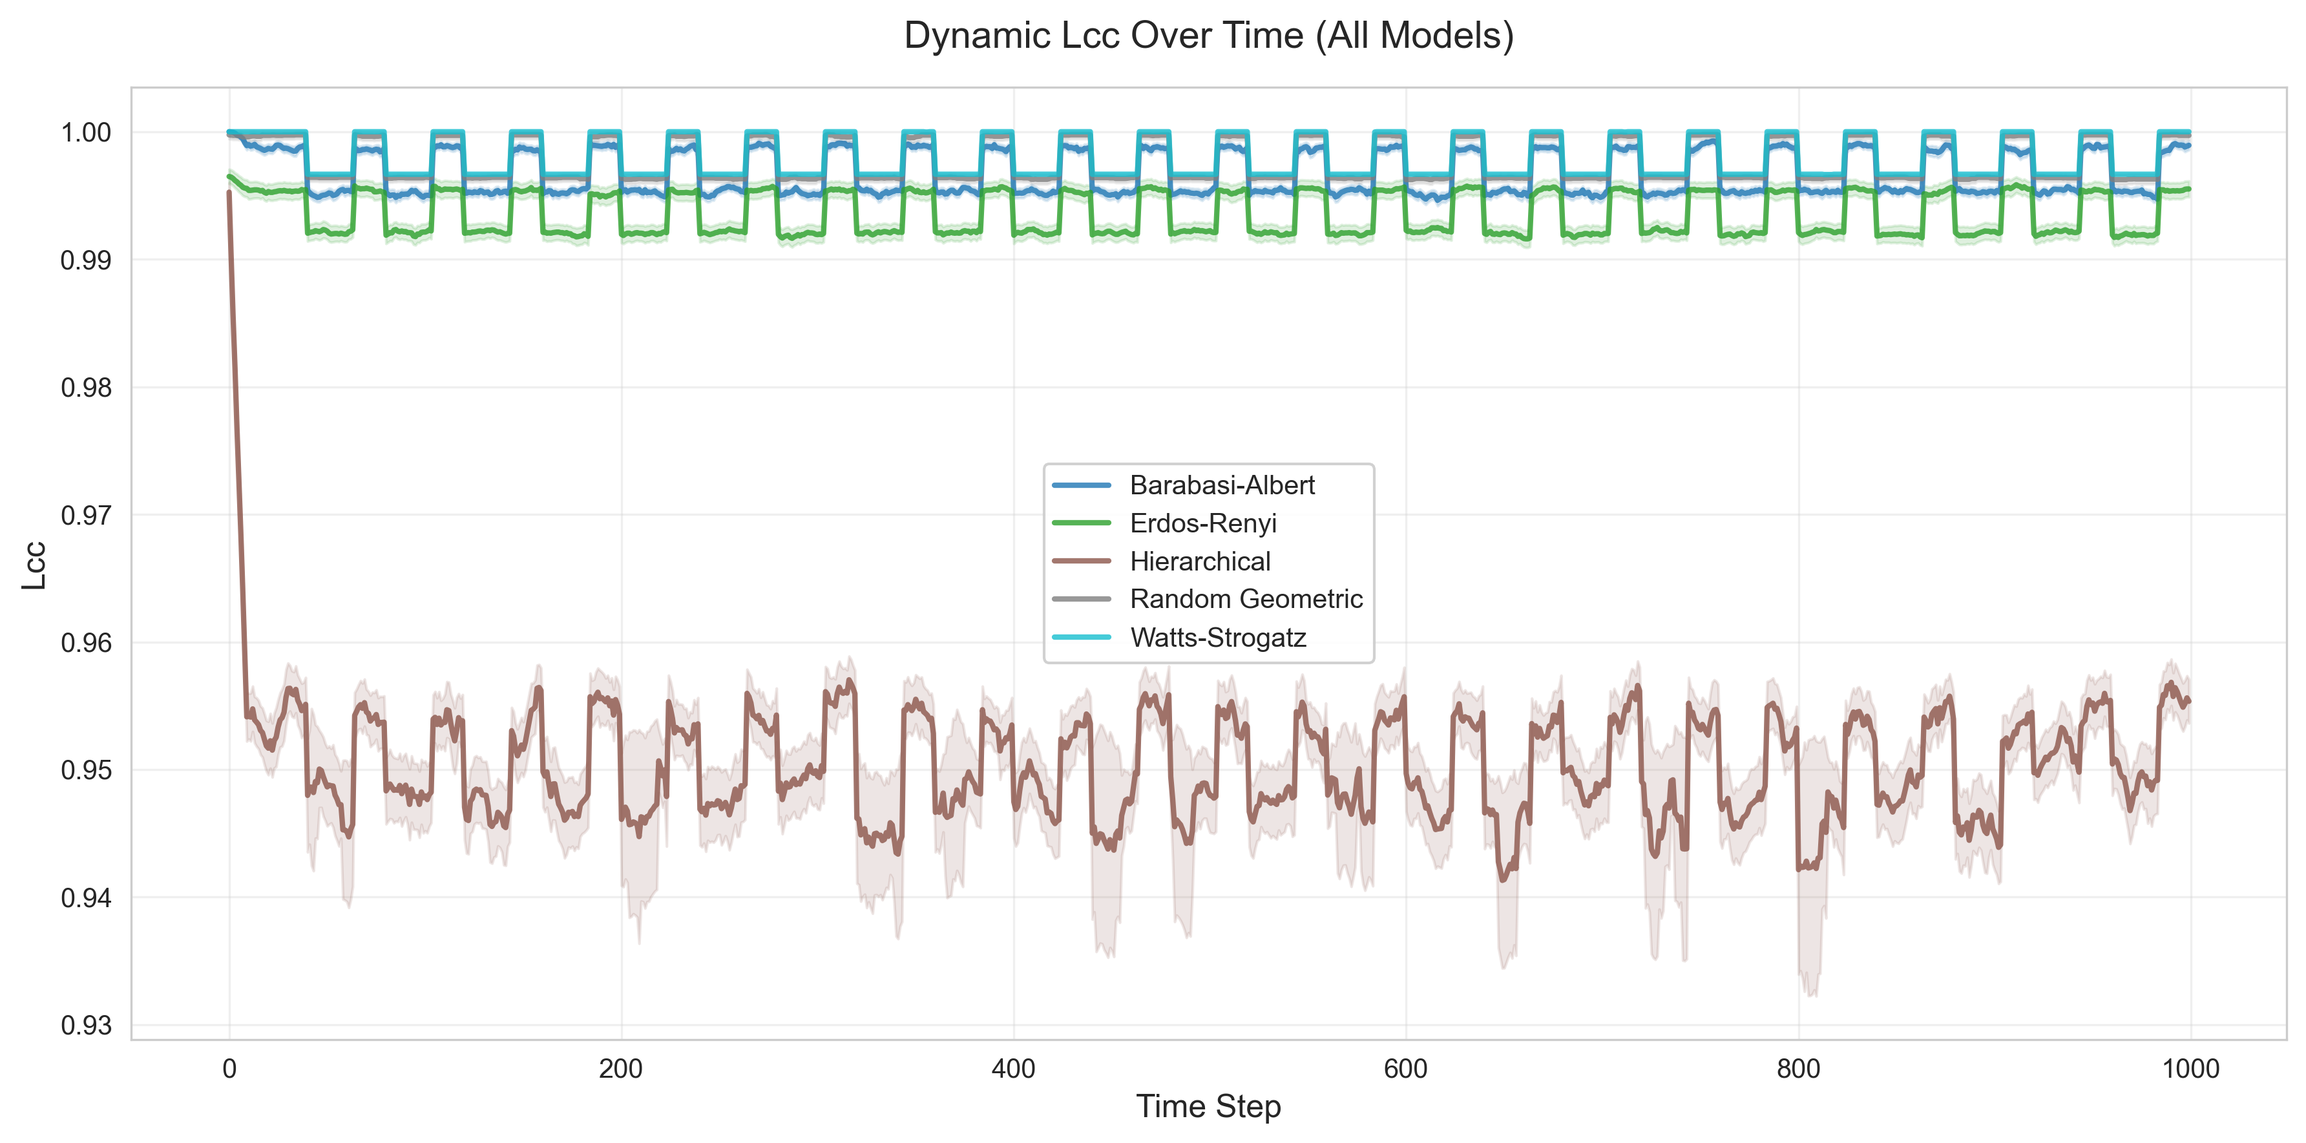
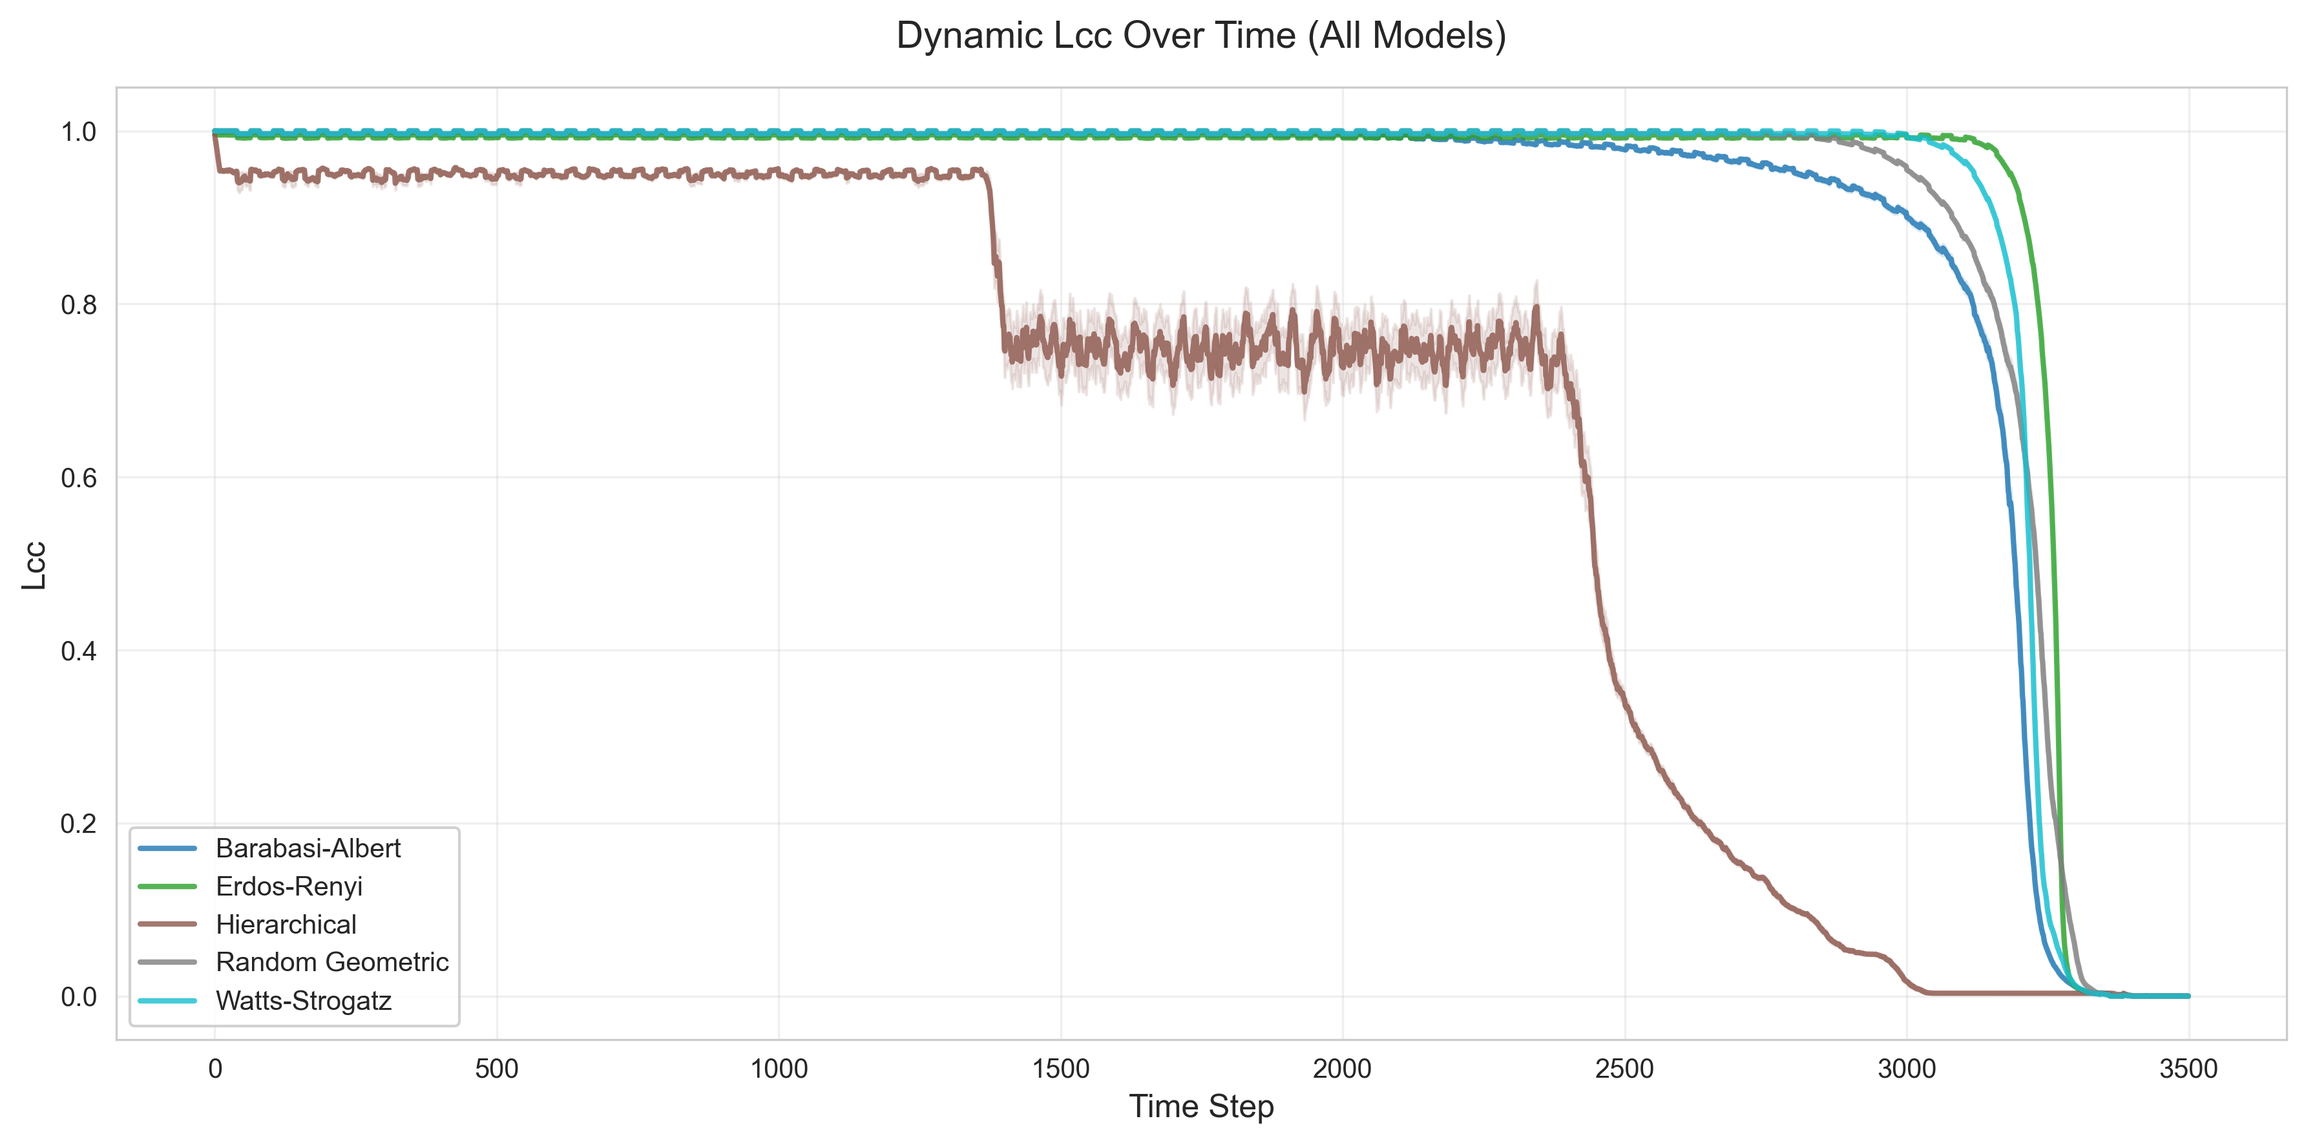
Added dynamic results and changed csv file structure

diff --git a/plots/dynamic_plot_results.py b/plots/dynamic_plot_results.py
@@ -125,11 +125,20 @@ def plot_summary(df: pd.DataFrame, metric: str, save: bool, output: str):
         yerr = agg['ci95'].to_numpy()
         
         # Color bars based on performance (green=good, orange=warning, red=poor)
+        # Updated thresholds for 3500-step simulation with energy depletion
         if metric == 'ddr_final':
-            colors = ['#d62728' if h < 0.95 else '#ff7f0e' if h < 0.98 else '#2ca02c' for h in heights]
+            # With energy depletion: 56.9% (Hierarchical) to 92.9% (RGG)
+            # Red < 75%, Orange < 88%, Green ≥ 88%
+            colors = ['#d62728' if h < 0.75 else '#ff7f0e' if h < 0.88 else '#2ca02c' for h in heights]
         elif metric == 'ttr_mean':
             colors = ['#2ca02c' if h < 0.1 else '#ff7f0e' if h < 0.5 else '#d62728' for h in heights]
-        elif metric in ('time_to_first_death', 'time_to_lcc_collapse'):
+        elif metric == 'time_to_first_death':
+            # Energy lifetime: 1388 (Hierarchical) to 3094 (ER)
+            # Red < 2000 steps, Orange < 2700 steps, Green ≥ 2700 steps
+            colors = ['#d62728' if h < 2000 else '#ff7f0e' if h < 2700 else '#2ca02c' for h in heights]
+        elif metric == 'time_to_lcc_collapse':
+            # All models collapse eventually due to energy depletion
+            # Use horizon-based thresholds (earlier collapse = worse)
             colors = ['#d62728' if h < horizon * 0.8 else '#ff7f0e' if h < horizon * 0.95 else '#2ca02c' for h in heights]
         else:
             colors = '#1f77b4'  # Default blue
@@ -385,9 +394,9 @@ def main():
     args = parser.parse_args()
 
     ts_file = DYNAMIC_SIMULATION_CONFIG.get(
-        'timeseries_filename', 'dynamic_timeseries.csv')
+        'timeseries_filename', 'csv/operational_simulation_timeseries.csv')
     sm_file = DYNAMIC_SIMULATION_CONFIG.get(
-        'summary_filename', 'dynamic_summary.csv')
+        'summary_filename', 'csv/operational_simulation_summary.csv')
 
     if args.plot == 'timeseries':
         if not os.path.exists(ts_file):

diff --git a/config.py b/config.py
@@ -16,7 +16,7 @@ STATIC_SIMULATION_CONFIG = {
     'num_runs_per_setting': 150,
     'models': models(),
     'strategies': ['random', 'targeted_degree', 'targeted_centrality'],
-    'results_filename': 'static_analysis_300n_150r.csv',
+    'results_filename': 'csv/attack_simulation_results.csv',
     'random_seed_base': 1000,
     'flush_every': 0,
 }
@@ -25,7 +25,7 @@ DYNAMIC_SIMULATION_CONFIG = {
     'num_nodes': 300,
     'num_runs_per_setting': 150,
     'models': models(),
-    'steps': 1000,
+    'steps': 3500,
     'packet_rate': 2,
     'node_failure_period': 40,
     'node_recovery_steps': 25,
@@ -37,8 +37,8 @@ DYNAMIC_SIMULATION_CONFIG = {
     'link_down_steps': 10,
     'ttr_epsilon': 0.05,  # Increased from 0.01 to capture meaningful disruptions
     'ddr_smoothing_window': 20,
-    'timeseries_filename': 'dynamic_analysis_timeseries_300n_150r.csv',
-    'summary_filename': 'dynamic_analysis_summary_300n_150r.csv',
+    'timeseries_filename': 'csv/operational_simulation_timeseries.csv',
+    'summary_filename': 'csv/operational_simulation_summary.csv',
     'random_seed_base': 2000,
     'flush_every': 0,
 }

diff --git a/simulation/dynamic_simulation.py b/simulation/dynamic_simulation.py
@@ -71,8 +71,8 @@ def main():
     if args.steps is not None:
         cfg['steps'] = args.steps
 
-    timeseries_path = args.timeseries or cfg.get('timeseries_filename', 'dynamic_timeseries.csv')
-    summary_path = args.summary or cfg.get('summary_filename', 'dynamic_summary.csv')
+    timeseries_path = args.timeseries or cfg.get('timeseries_filename', 'csv/operational_simulation_timeseries.csv')
+    summary_path = args.summary or cfg.get('summary_filename', 'csv/operational_simulation_summary.csv')
 
     params = build_params(cfg, compute_ac=args.compute_ac)
     smoothing_window = int(cfg.get('ddr_smoothing_window', 1))

diff --git a/RESULTS.md b/RESULTS.md
@@ -28,6 +28,7 @@
 | Watts-Strogatz | 0.173 |
 | Random Geometric | 0.160 |
 | Erdős-Rényi | 0.317 |
+
 ---
 
 ## Findings
@@ -68,104 +69,124 @@
 
 ## Plots
 
-![Data Delivery Ratio](plots/dynamic_analysis_results/dynamic_ddr_summary.png)
-![Time to Recovery](plots/dynamic_analysis_results/dynamic_ttr_summary.png)
-![Time to LCC Collapse](plots/dynamic_analysis_results/dynamic_lcc_collapse_summary.png)
-
 ![LCC Over Time](plots/dynamic_analysis_results/dynamic_lcc_overlay.png)
-![Data Delivery Ratio Over Time](plots/dynamic_analysis_results/dynamic_ddr_overlay.png)
+![Online Nodes Over Time](plots/dynamic_analysis_results/dynamic_online_fraction_overlay.png)
+![Data Delivery Ratio Over Time](plots/dynamic_analysis_results/dynamic_ddr_cumulative_overlay.png)
+
+![Data Delivery Ratio Summary](plots/dynamic_analysis_results/dynamic_ddr_final_summary.png)
+![Time to First Death](plots/dynamic_analysis_results/dynamic_time_to_first_death_summary.png)
+![Time to Recovery](plots/dynamic_analysis_results/dynamic_ttr_mean_summary.png)
+![Time to LCC Collapse](plots/dynamic_analysis_results/dynamic_time_to_lcc_collapse_summary.png)
 
 ---
 
-### Performance Metrics Summary
+### Performance Metrics Summary (3500 Steps with Energy Depletion)
 
-**Data Delivery Ratio (DDR):**
+**Data Delivery Ratio (Final DDR after energy depletion):**
 
 | Network Model | Avg DDR | Performance |
 | :--- | :--- | :--- |
-| Watts-Strogatz | 1.0000 | Perfect ⭐⭐⭐⭐⭐ |
-| Random Geometric | 0.9994 | Excellent ⭐⭐⭐⭐⭐ |
-| Barabási-Albert | 0.9973 | Excellent ⭐⭐⭐⭐⭐ |
-| Erdős-Rényi | 0.9905 | Very Good ⭐⭐⭐⭐ |
-| Hierarchical | 0.9063 | Moderate ⭐⭐⭐ |
+| Random Geometric | 0.9285 | Excellent ⭐⭐⭐⭐⭐ |
+| Erdős-Rényi | 0.9237 | Excellent ⭐⭐⭐⭐⭐ |
+| Watts-Strogatz | 0.9222 | Excellent ⭐⭐⭐⭐⭐ |
+| Barabási-Albert | 0.8883 | Good ⭐⭐⭐⭐ |
+| Hierarchical | 0.5692 | Poor ⭐⭐ |
 
-**Resilience to Random Failures:**
+**Energy Lifetime & Resilience:**
 
-| Network Model | LCC Collapses | TTR Events | First Deaths |
+| Network Model | Time to First Death (steps) | LCC Collapses | Final Online Fraction |
 | :--- | :--- | :--- | :--- |
-| Watts-Strogatz | 0/150 (0%) | 0% | 0/150 |
-| Random Geometric | 0/150 (0%) | 0% | 0/150 |
-| Barabási-Albert | 0/150 (0%) | 0% | 0/150 |
-| Erdős-Rényi | 0/150 (0%) | 0% | 0/150 |
-| Hierarchical | 9/150 (6%) | 59% | 0/150 |
+| Erdős-Rényi | 3094 | 150/150 (100%) | ~0% |
+| Watts-Strogatz | 2976 | 150/150 (100%) | ~0% |
+| Random Geometric | 2783 | 150/150 (100%) | ~0% |
+| Barabási-Albert | 2101 ⚠ | 150/150 (100%) | ~0% |
+| Hierarchical | 1388 ⚠ | 150/150 (100%) | ~0% |
 
 ---
 
-## Findings
+## Findings: Energy Depletion & Network Degradation
 
-### Watts-Strogatz & Random Geometric Networks
+### Energy Lifetime Rankings
 
-- **Observation:** Perfect or near-perfect packet delivery (DDR > 0.999). No LCC collapses.
-- **Interpretation:** High clustering with shortcuts (WS) and spatial redundancy (RGG) provide excellent resilience to random failures. Multiple routing paths ensure continuous operation.
+**Key Observation:** Different topologies exhibit dramatically different energy consumption patterns:
 
-### Barabási-Albert Network
+1. **Erdős-Rényi (3094 steps)** - Longest survival due to uniform load distribution
+2. **Watts-Strogatz (2976 steps)** - Balanced traffic via clustering + shortcuts
+3. **Random Geometric (2783 steps)** - Good load balancing with spatial routing
+4. **Barabási-Albert (2101 steps)** - Hub nodes die early from high traffic load
+5. **Hierarchical (1388 steps)** - Gateways exhaust energy first (all sensor traffic)
 
-- **Observation:** Excellent DDR (0.9973). No collapses despite hub-based structure.
-- **Interpretation:** Random failures rarely hit critical hubs (low probability). When non-hub nodes fail, connectivity maintained through hub redundancy.
+### Network-Specific Analysis
 
-### Erdős-Rényi Network
+**Random Geometric, Erdős-Rényi & Watts-Strogatz:**
 
-- **Observation:** Good DDR (0.9905). Predictable, homogeneous behavior.
-- **Interpretation:** All nodes equally important. Random failures have moderate, uniform impact across the network.
+- **Observation:** Maintain 92-93% DDR throughout 3500 steps. Graceful degradation as nodes die.
+- **Energy Depletion:** Uniform death patterns (~3000 steps). Networks remain partially connected until near-total collapse.
+- **Interpretation:** Distributed topologies balance energy load. Multiple redundant paths compensate for node failures.
 
-### Hierarchical Network
+**Barabási-Albert:**
 
-- **Observation:** Significantly lower DDR (0.9063). 6% of runs experienced LCC collapse. 59% of runs had measurable disruptions (TTR > 0).
-- **Interpretation:** Gateway nodes are single points of failure (6.6% random hit probability). When a gateway fails, ~14 connected sensors become isolated. Rapid recovery once gateway restored (TTR ≈ 0.31 steps).
+- **Observation:** Earlier first deaths (2101 steps). DDR drops to 88.8%, showing stress under energy constraints.
+- **Energy Depletion:** Hub nodes die first due to forwarding traffic for many peripheral nodes.
+- **Interpretation:** Scale-free networks are vulnerable to energy-based "targeted" attacks. High-degree nodes exhaust energy faster, creating cascading failures.
+
+**Hierarchical:**
+
+- **Observation:** Catastrophic performance. First deaths at 1388 steps. Final DDR only 56.9%.
+- **Energy Depletion:** Gateway nodes die first (all sensor traffic flows through them). 100% LCC collapse rate.
+- **Interpretation:** Centralized architecture creates extreme energy hotspots. Gateway failures instantly partition the network, isolating sensor clusters.
 
 ---
 
 > [!NOTE]
 >
-> ### Summary Table
+> ### Overall Performance Summary
 >
-> | Network Model | DDR Performance | Resilience to Random Failures | Resilience to Targeted Attacks | Key Characteristic |
+> | Network Model | DDR (3500 steps) | Energy Lifetime | Resilience to Targeted Attacks | Key Characteristic |
 > | :--- | :--- | :--- | :--- | :--- |
-> | Watts-Strogatz | Perfect (1.0000) | Excellent | Moderate | Clustering + shortcuts |
-> | Random Geometric | Excellent (0.9994) | Excellent | Moderate | Spatial redundancy |
-> | Barabási-Albert | Excellent (0.9973) | Excellent | Poor | Hub-based, random-safe |
-> | Erdős-Rényi | Very Good (0.9905) | Good | Moderate | Homogeneous structure |
-> | Hierarchical | Moderate (0.9063) | Vulnerable | Extremely Vulnerable | Gateway dependency |
+> | Random Geometric | 92.9% | 2783 steps | Moderate | Spatial redundancy, graceful degradation |
+> | Erdős-Rényi | 92.4% | 3094 steps | Moderate | Uniform load distribution, longest survival |
+> | Watts-Strogatz | 92.2% | 2976 steps | Moderate | Clustering + shortcuts, balanced traffic |
+> | Barabási-Albert | 88.8% | 2101 steps ⚠ | Poor | Hub energy exhaustion, scale-free vulnerability |
+> | Hierarchical | 56.9% | 1388 steps ⚠ | Extremely Poor | Gateway dependency, catastrophic failures |
 >
+
+---
 
 ### Critical Insights
 
-**1. Network Topology Matters More for Targeted Attacks**
-- Random failures: Most topologies highly resilient (DDR > 99%)
-- Targeted attacks: Hierarchical/BA collapse rapidly (see static analysis)
-- Implication: Design choice depends on threat model
+#### 1. Energy-Based "Targeted Attacks" Emerge Naturally
 
-**2. Energy Model Validation**
-- No nodes died from energy exhaustion in 1000 steps
-- Topology effects visible, not masked by universal energy collapse
-- Updated parameters (`initial_energy=100`, `base_energy_drain=0.03`) enable meaningful comparisons
+- **Hub-based topologies** (BA, Hierarchical) suffer from natural load concentration
+- High-degree nodes exhaust energy faster, creating cascading failures
+- Energy depletion reveals hidden vulnerabilities not visible in static analysis
 
-**3. TTR Measurement: Zero is Good News**
-- Most networks (BA, ER, WS, RGG) have TTR = 0
-- Meaning: Single random failures don't cause ≥5% LCC degradation
-- Only Hierarchical experiences measurable disruptions (centralized structure)
+#### 2. Distributed Topologies Win on Energy Efficiency
 
-**4. Hierarchical Trade-offs**
-- Advantages: Simple management, clear data flow, efficient routing
-- Disadvantages: 10% packet loss, 6% collapse rate, gateway dependency
-- Mitigation: Redundant gateways, multi-parent sensors, inter-gateway links
+- ER, WS, RGG maintain 92%+ DDR even after 3500 steps
+- Uniform load distribution extends network lifetime by 40-120% vs. hierarchical
+- Multiple redundant paths enable graceful degradation
+
+#### 3. Hierarchical Networks Face Dual Vulnerabilities
+
+- **Energy hotspots:** Gateways die 2.2× faster than distributed networks
+- **Structural brittleness:** Single gateway failure partitions 14+ sensors
+- **Recommendation:** Add gateway redundancy, multi-parent sensors, inter-gateway mesh
+
+#### 4. Barabási-Albert: Random-Resilient but Energy-Vulnerable
+
+- **Static analysis:** Poor under targeted attacks (6% removal → 50% LCC loss)
+- **Dynamic analysis:** Good under random failures, but hub energy exhaustion emerges
+- **Trade-off:** Natural load imbalance creates energy-based "targeted" effects
+
+---
 
 ### Comparison: Static vs. Dynamic Analysis
 
-| Network Model | Random Failures (Dynamic) | Targeted Attacks (Static) | Recommendation |
-|---------------|---------------------------|---------------------------|----------------|
-| Watts-Strogatz | Excellent (DDR=1.00) | Moderate (17% removal → 50% loss) | ✅ Best for high-reliability IoT |
-| Random Geometric | Excellent (DDR=0.999) | Moderate (16% removal → 50% loss) | ✅ Best for spatial networks |
-| Barabási-Albert | Excellent (DDR=0.997) | Poor (6% removal → 50% loss) | ⚠ Use only if attacks unlikely |
-| Erdős-Rényi | Good (DDR=0.991) | Moderate (32% removal → 50% loss) | ✅ Good baseline |
-| Hierarchical | Vulnerable (DDR=0.906) | Extremely Poor (3.3% removal → 50% loss) | ❌ Avoid for critical systems |
+| Network Model | Random Failures (Dynamic) | Energy Lifetime | Targeted Attacks (Static) | Recommendation |
+|---------------|---------------------------|-----------------|---------------------------|----------------|
+| Erdős-Rényi | Excellent (DDR=92.4%) | 3094 steps (best) | Moderate (32% removal → 50% loss) | ✅ Best overall balance |
+| Watts-Strogatz | Excellent (DDR=92.2%) | 2976 steps | Moderate (17% removal → 50% loss) | ✅ Best for high-reliability IoT |
+| Random Geometric | Excellent (DDR=92.9%) | 2783 steps | Moderate (16% removal → 50% loss) | ✅ Best for spatial networks |
+| Barabási-Albert | Good (DDR=88.8%) | 2101 steps ⚠ | Poor (6% removal → 50% loss) | ⚠ Avoid for critical/long-lived systems |
+| Hierarchical | Poor (DDR=56.9%) | 1388 steps ⚠ | Extremely Poor (3.3% removal → 50% loss) | ❌ Requires major architectural changes |

diff --git a/README.md b/README.md
@@ -10,6 +10,18 @@ To cover a broad set of structures and networks, several graph models are includ
 
 ## Local Development
 
+### Current Configuration (config.py)
+
+**Simulation Parameters:**
+- Nodes: 300 per network
+- Runs: 150 per model/strategy
+- Dynamic steps: 3500 (captures energy depletion)
+- Energy: 100 initial, 0.03 base drain (~3333 step lifetime)
+
+**Network Models:** Erdős-Rényi, Barabási-Albert, Watts-Strogatz, Random Geometric, Hierarchical
+
+**Attack Strategies (Static):** Random, Targeted Degree, Targeted Centrality
+
 ### Install Requirements
 
 ```shell
@@ -34,7 +46,10 @@ python -m simulation.static_simulation
 python -m simulation.dynamic_simulation
 ```
 
-Note: This will generate the results CSV at the path set in config.py (default: static_analysis_Xn_Yr.csv).
+Note: CSV results are saved to the `csv/` folder (configured in config.py):
+
+- Attack simulation: `csv/attack_simulation_results.csv`
+- Operational simulation: `csv/operational_simulation_timeseries.csv` and `csv/operational_simulation_summary.csv`
 
 ### Plot results
 
@@ -48,19 +63,23 @@ python -m plots.static_plot_results --metric algebraic_connectivity --save --out
 
 # Dynamic analysis plots
 ## Overlay plots (all models on one chart for comparison)
-python -m plots.dynamic_plot_results --plot timeseries-overlay --metric lcc --save --output dynamic_lcc_overlay.png
-python -m plots.dynamic_plot_results --plot timeseries-overlay --metric ddr_cumulative --save --output dynamic_ddr_overlay.png
-python -m plots.dynamic_plot_results --plot timeseries-overlay --metric online_fraction --save --output dynamic_online_overlay.png
+python -m plots.dynamic_plot_results --plot timeseries-overlay --metric lcc --save
+python -m plots.dynamic_plot_results --plot timeseries-overlay --metric ddr_cumulative --save
+python -m plots.dynamic_plot_results --plot timeseries-overlay --metric online_fraction --save
 
 ## Summary plots (bar charts with color-coded performance)
-python -m plots.dynamic_plot_results --plot summary --summary-metric ddr_final --save --output dynamic_ddr_summary.png
-python -m plots.dynamic_plot_results --plot summary --summary-metric ttr_mean --save --output dynamic_ttr_summary.png
-python -m plots.dynamic_plot_results --plot summary --summary-metric time_to_lcc_collapse --save --output dynamic_lcc_collapse_summary.png
+python -m plots.dynamic_plot_results --plot summary --summary-metric ddr_final --save
+python -m plots.dynamic_plot_results --plot summary --summary-metric ttr_mean --save
+python -m plots.dynamic_plot_results --plot summary --summary-metric time_to_first_death --save
+python -m plots.dynamic_plot_results --plot summary --summary-metric time_to_lcc_collapse --save
 ```
 
 Notes:
-- When using `--save`, files are written into the plots/ directory automatically.
+
+- Simulation runs for 3500 steps to capture energy depletion effects
+- When using `--save`, files are written into `plots/dynamic_analysis_results/` automatically
 - Overlay plots show all models on one chart for easy comparison
+- Summary plots use color coding: green (good), orange (moderate), red (poor)
 
 ### Generate graph visualizations
 
